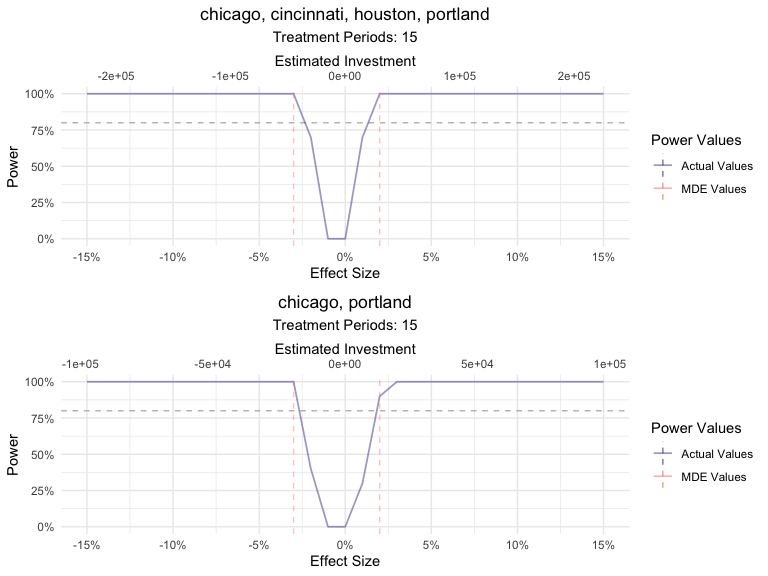
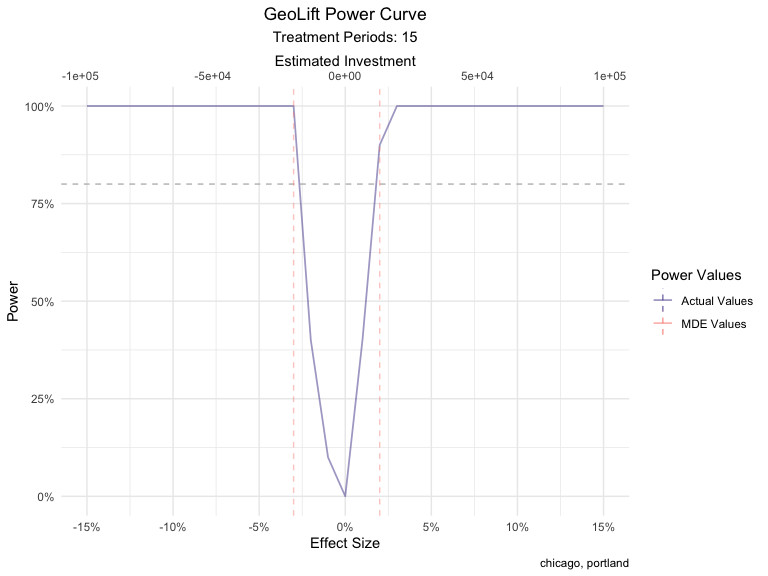
single power curve with higher lookback window

diff --git a/vignettes/GeoLift_Walkthrough.md b/vignettes/GeoLift_Walkthrough.md
@@ -478,53 +478,45 @@ locations, we can run more than 1 simulation for each of the top
 contenders that came out of `GeoLiftMarketSelection`.
 
 We will do this by running the `GeoLiftPower` method and expanding our
-`lookback_window` to 10 days, only for these two treatment combinations
-and plot their results.
+`lookback_window` to 10 days, only for this treatment combination and
+plot their results.
+
+#### NOTE: You could repeat this process for the top 5 treatment combinations that come out of GeoLiftMarketSelection, with increased lookback windows and compare their power curves. We will do it only for Chicago and Portland here.
 
 ``` r
-top_market_power_data <- list()
-for (market_id in 2:3){
-  market_row <- MarketSelections$BestMarkets %>% dplyr::filter(ID == market_id)
-  treatment_locations <- stringr::str_split(market_row$location, ", ")[[1]]
-  treatment_duration <- market_row$duration
-  lookback_window <- 10
+market_id = 3
+market_row <- MarketSelections$BestMarkets %>% dplyr::filter(ID == market_id)
+treatment_locations <- stringr::str_split(market_row$location, ", ")[[1]]
+treatment_duration <- market_row$duration
+lookback_window <- 10
 
-  power_data <- GeoLiftPower(
-    data = GeoTestData_PreTest,
-    locations = treatment_locations,
-    effect_size = seq(-0.15, 0.15, 0.01),
-    lookback_window = lookback_window,
-    treatment_periods = treatment_duration,
-    cpic = 7.5,
-    side_of_test = "one_sided"
-  )
-  top_market_power_data[[market_id]] <- power_data
-}
-#> Setting up cluster.
-#> Importing functions into cluster.
-#> Setting up cluster.
-#> Importing functions into cluster.
-
-gridExtra::grid.arrange(
-  plot(top_market_power_data[[2]], show_mde = TRUE, smoothed_values = FALSE, breaks_x_axis = 5) +
-    labs(title = unique(top_market_power_data[[2]]$location)),
-  plot(top_market_power_data[[3]], show_mde = TRUE, smoothed_values = FALSE, breaks_x_axis = 5) +
-    labs(title = unique(top_market_power_data[[3]]$location)),
-  ncol=1,
-  nrow=2
+power_data <- GeoLiftPower(
+  data = GeoTestData_PreTest,
+  locations = treatment_locations,
+  effect_size = seq(-0.15, 0.15, 0.01),
+  lookback_window = lookback_window,
+  treatment_periods = treatment_duration,
+  cpic = 7.5,
+  side_of_test = "one_sided"
 )
+#> Setting up cluster.
+#> Importing functions into cluster.
+
+plot(power_data, show_mde = TRUE, smoothed_values = FALSE, breaks_x_axis = 5) +
+    labs(caption = unique(power_data$location))
 ```
 
 <img src="GeoLift_Walkthrough_files/figure-markdown_github/GeoLiftPower top contenders-1.png" style="display: block; margin: auto;" />
 
 While both market selections perform excellent on all metrics, we will
 move further with the latter since it allows us to run a successful test
-with a smaller budget. Finally, changing the `print_summary` parameter
-of `plot()` to `TRUE` can provide us with additional information about
-this market selection.
+with a smaller budget. Also, the power curve is symmetrical with respect
+to the y axis, it has no power when the true effect is zero, and has a
+similar behavior with more simulations. Finally, changing the
+`print_summary` parameter of `plot()` to `TRUE` can provide us with
+additional information about this market selection.
 
 ``` r
-
 # Plot for chicago, portland for a 15 day test
 plot(MarketSelections, market_ID = 3, print_summary = TRUE)
 #> ##################################
@@ -578,7 +570,6 @@ plot(MarketSelections, market_ID = 3, print_summary = TRUE)
 #### **Note:** Given that we are not using the complete pre-treatment data to calculate the weights in our power analysis simulations, the ones displayed by the plotting function above are not the *final* values. However, you can easily obtain them with the `GetWeights()` function.
 
 ``` r
-
 weights <- GetWeights(Y_id = "Y",
                       location_id = "location",
                       time_id = "time",
@@ -703,7 +694,7 @@ GeoTest
 #> 
 #> The results are significant at a 95% level. (TWO-SIDED LIFT TEST)
 #> 
-#> There is a 1.2% chance of observing an effect this large or larger assuming treatment effect is zero.
+#> There is a 0.8% chance of observing an effect this large or larger assuming treatment effect is zero.
 ```
 
 The results show that the campaigns led to a 5.4% lift in units sold
@@ -882,7 +873,7 @@ GeoTestBest
 #> 
 #> The results are significant at a 95% level. (TWO-SIDED LIFT TEST)
 #> 
-#> There is a 1.2% chance of observing an effect this large or larger assuming treatment effect is zero.
+#> There is a 0.9% chance of observing an effect this large or larger assuming treatment effect is zero.
 summary(GeoTestBest)
 #> 
 #> GeoLift Results Summary
